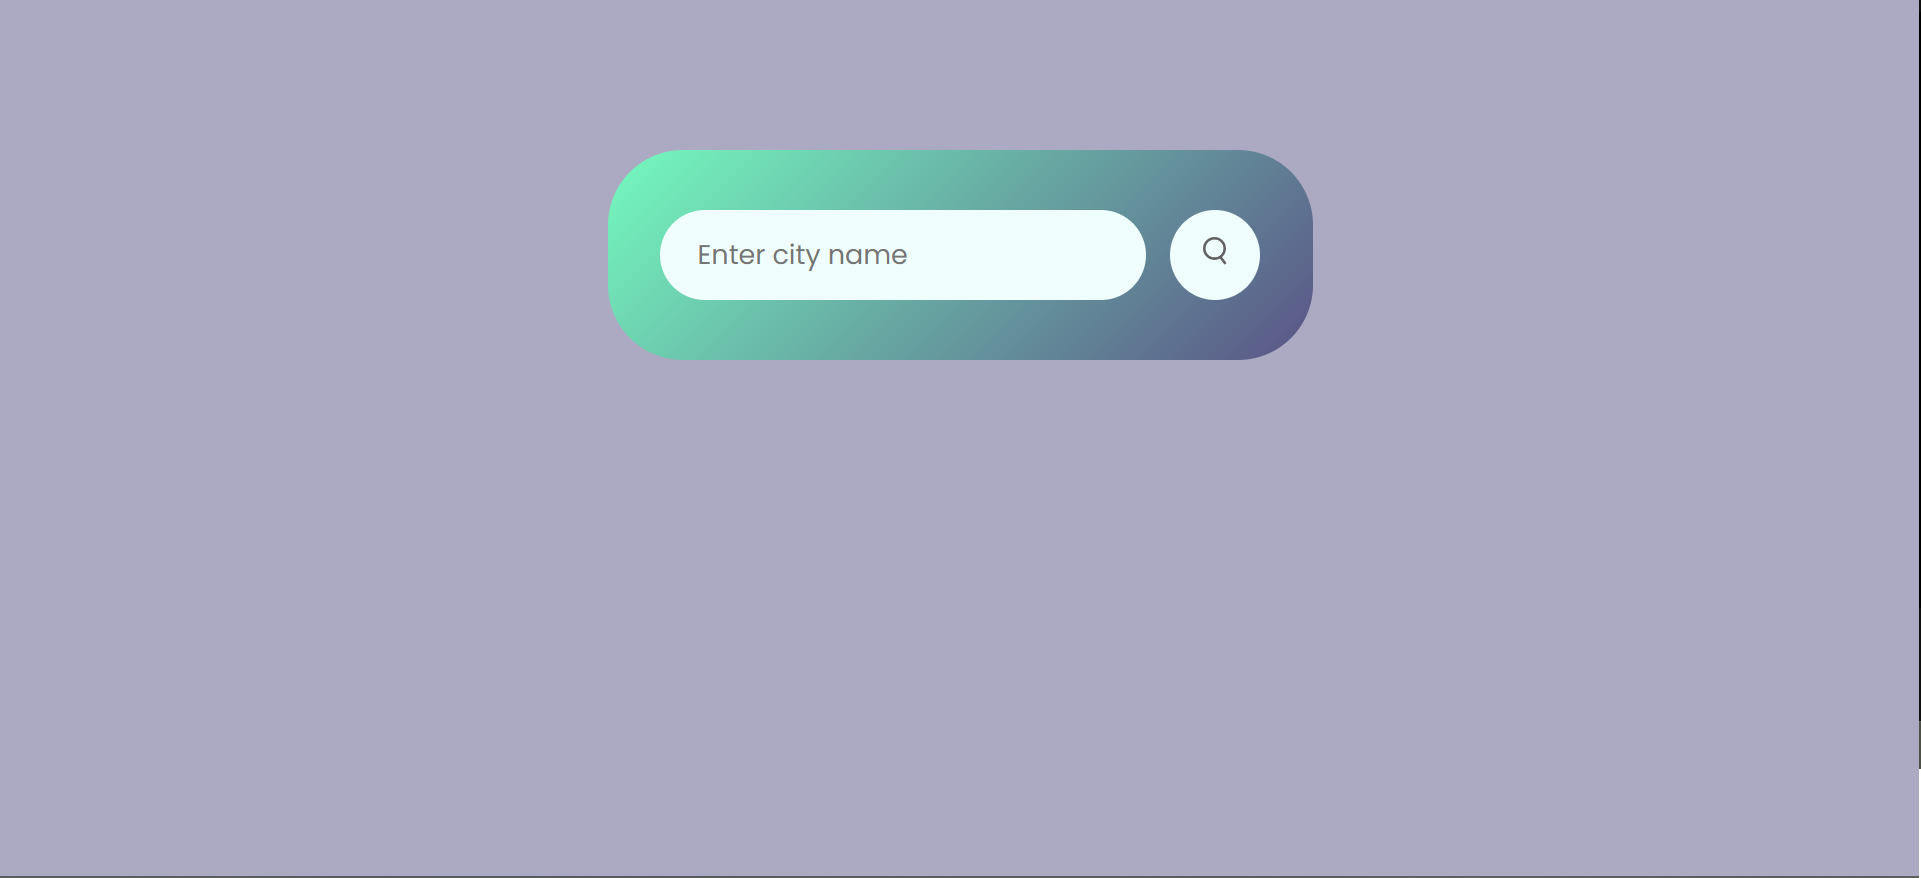
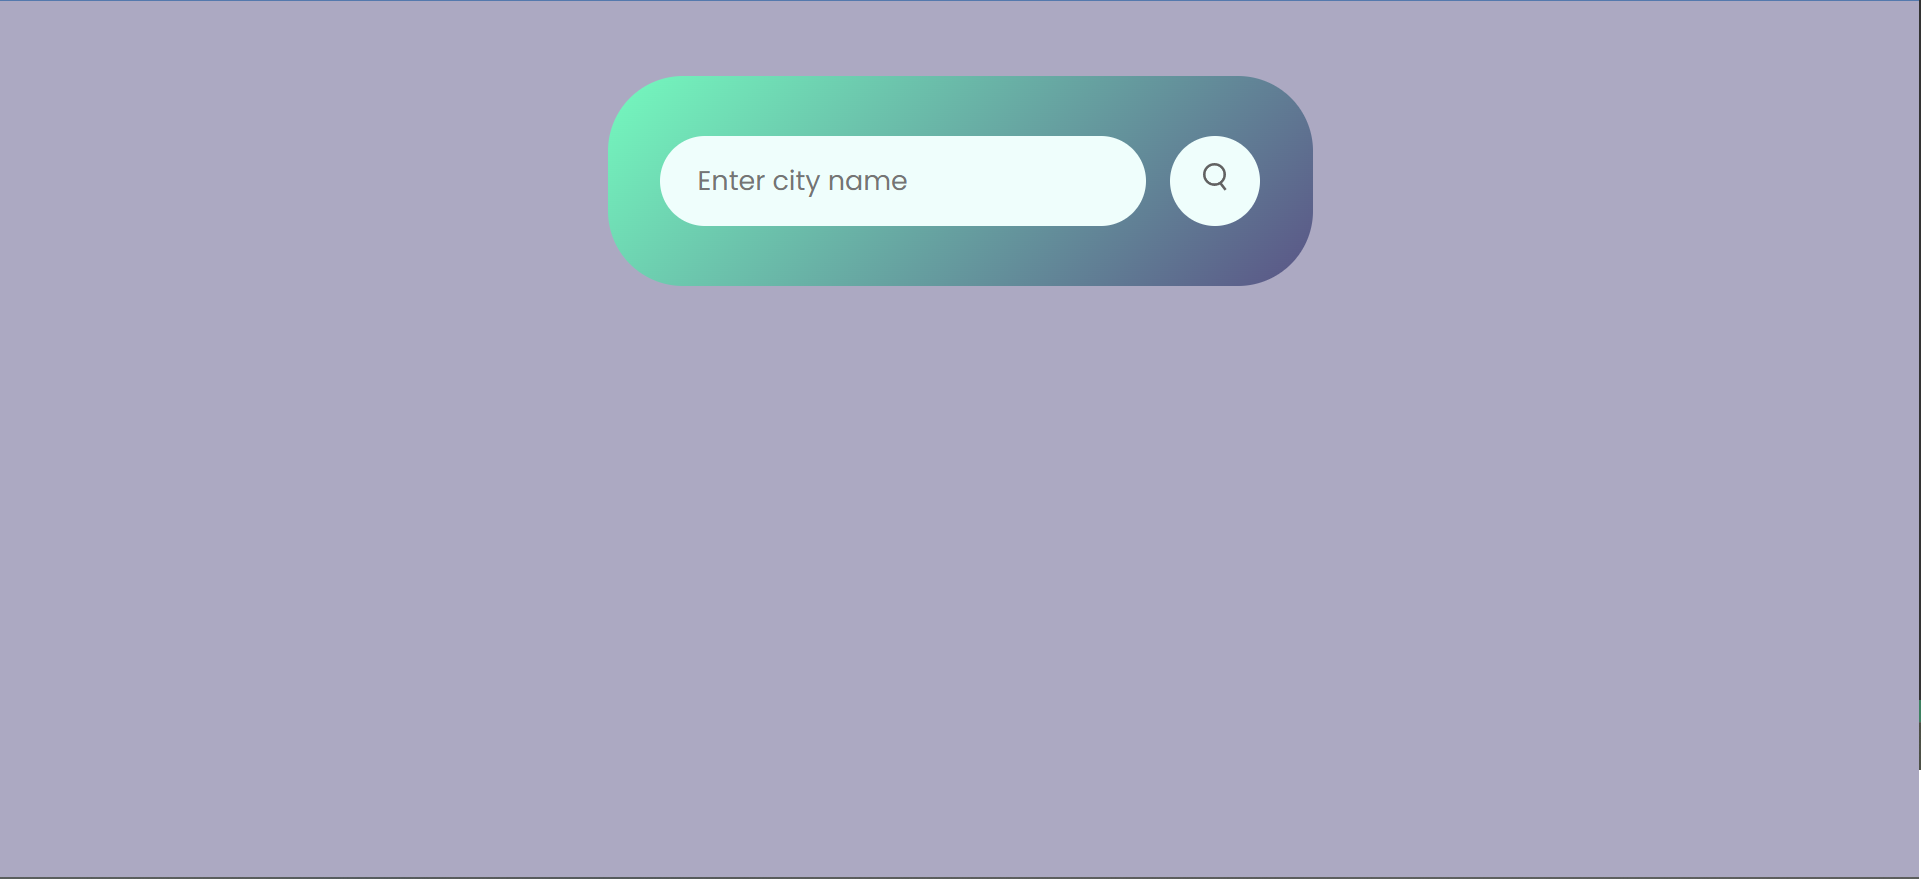
commit

Changed region(s): [[0.3123, 0.0615, 0.6871, 0.4305], [0.9995, 0.0, 1.0, 0.8303]]

diff --git a/style.css b/style.css
@@ -17,7 +17,7 @@ body {
     max-width: 470px;
     background: linear-gradient(135deg, #00feba, #5b548a);
     color: #fff;
-    margin: 100px auto 0;
+    margin: 50px auto 50px;
     border-radius: 50px;
     padding: 40px 35px;
     text-align: center;
@@ -58,12 +58,12 @@ body {
 }
 
 .weather-icon {
-    width: 170px;
+    width: 160px;
     margin-top: 30px;
 }
 
 .weather h1 {
-    font-size: 80px;
+    font-size: 40px;
     font-weight: 500;
 }
 
